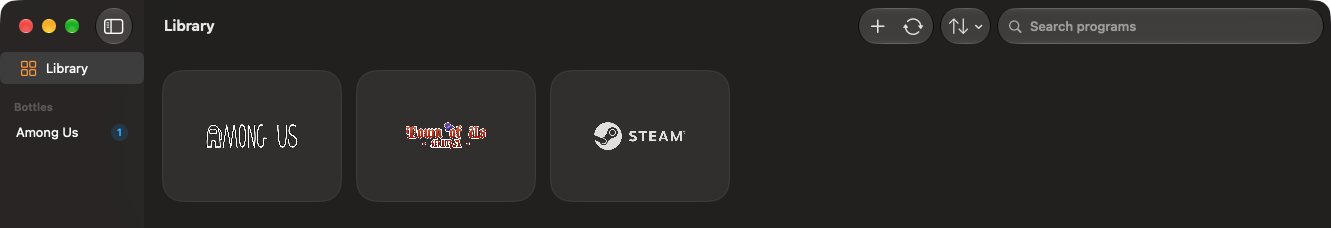
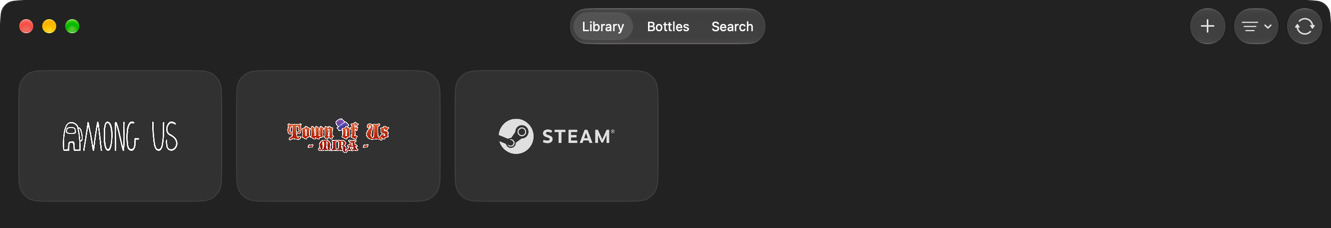
Site: Library screenshot with the new tab navigation

diff --git a/site/src/App.jsx b/site/src/App.jsx
@@ -13,7 +13,7 @@ const showcase = [
     title: 'Every mod gets its own card.',
     body: 'The regular game and each modded version sit side by side. Each mod lives in an instant APFS clone of the game, so it takes no extra space until Steam changes the original.',
     img: '/images/library.png',
-    alt: 'BetterWhisky Library with Among Us, Town of Us: Mira and Steam',
+    alt: 'BetterWhisky Library with Among Us, Town of Us: Mira and Steam, under the Library, Bottles and Search tabs',
   },
   {
     eyebrow: 'Mod settings',
